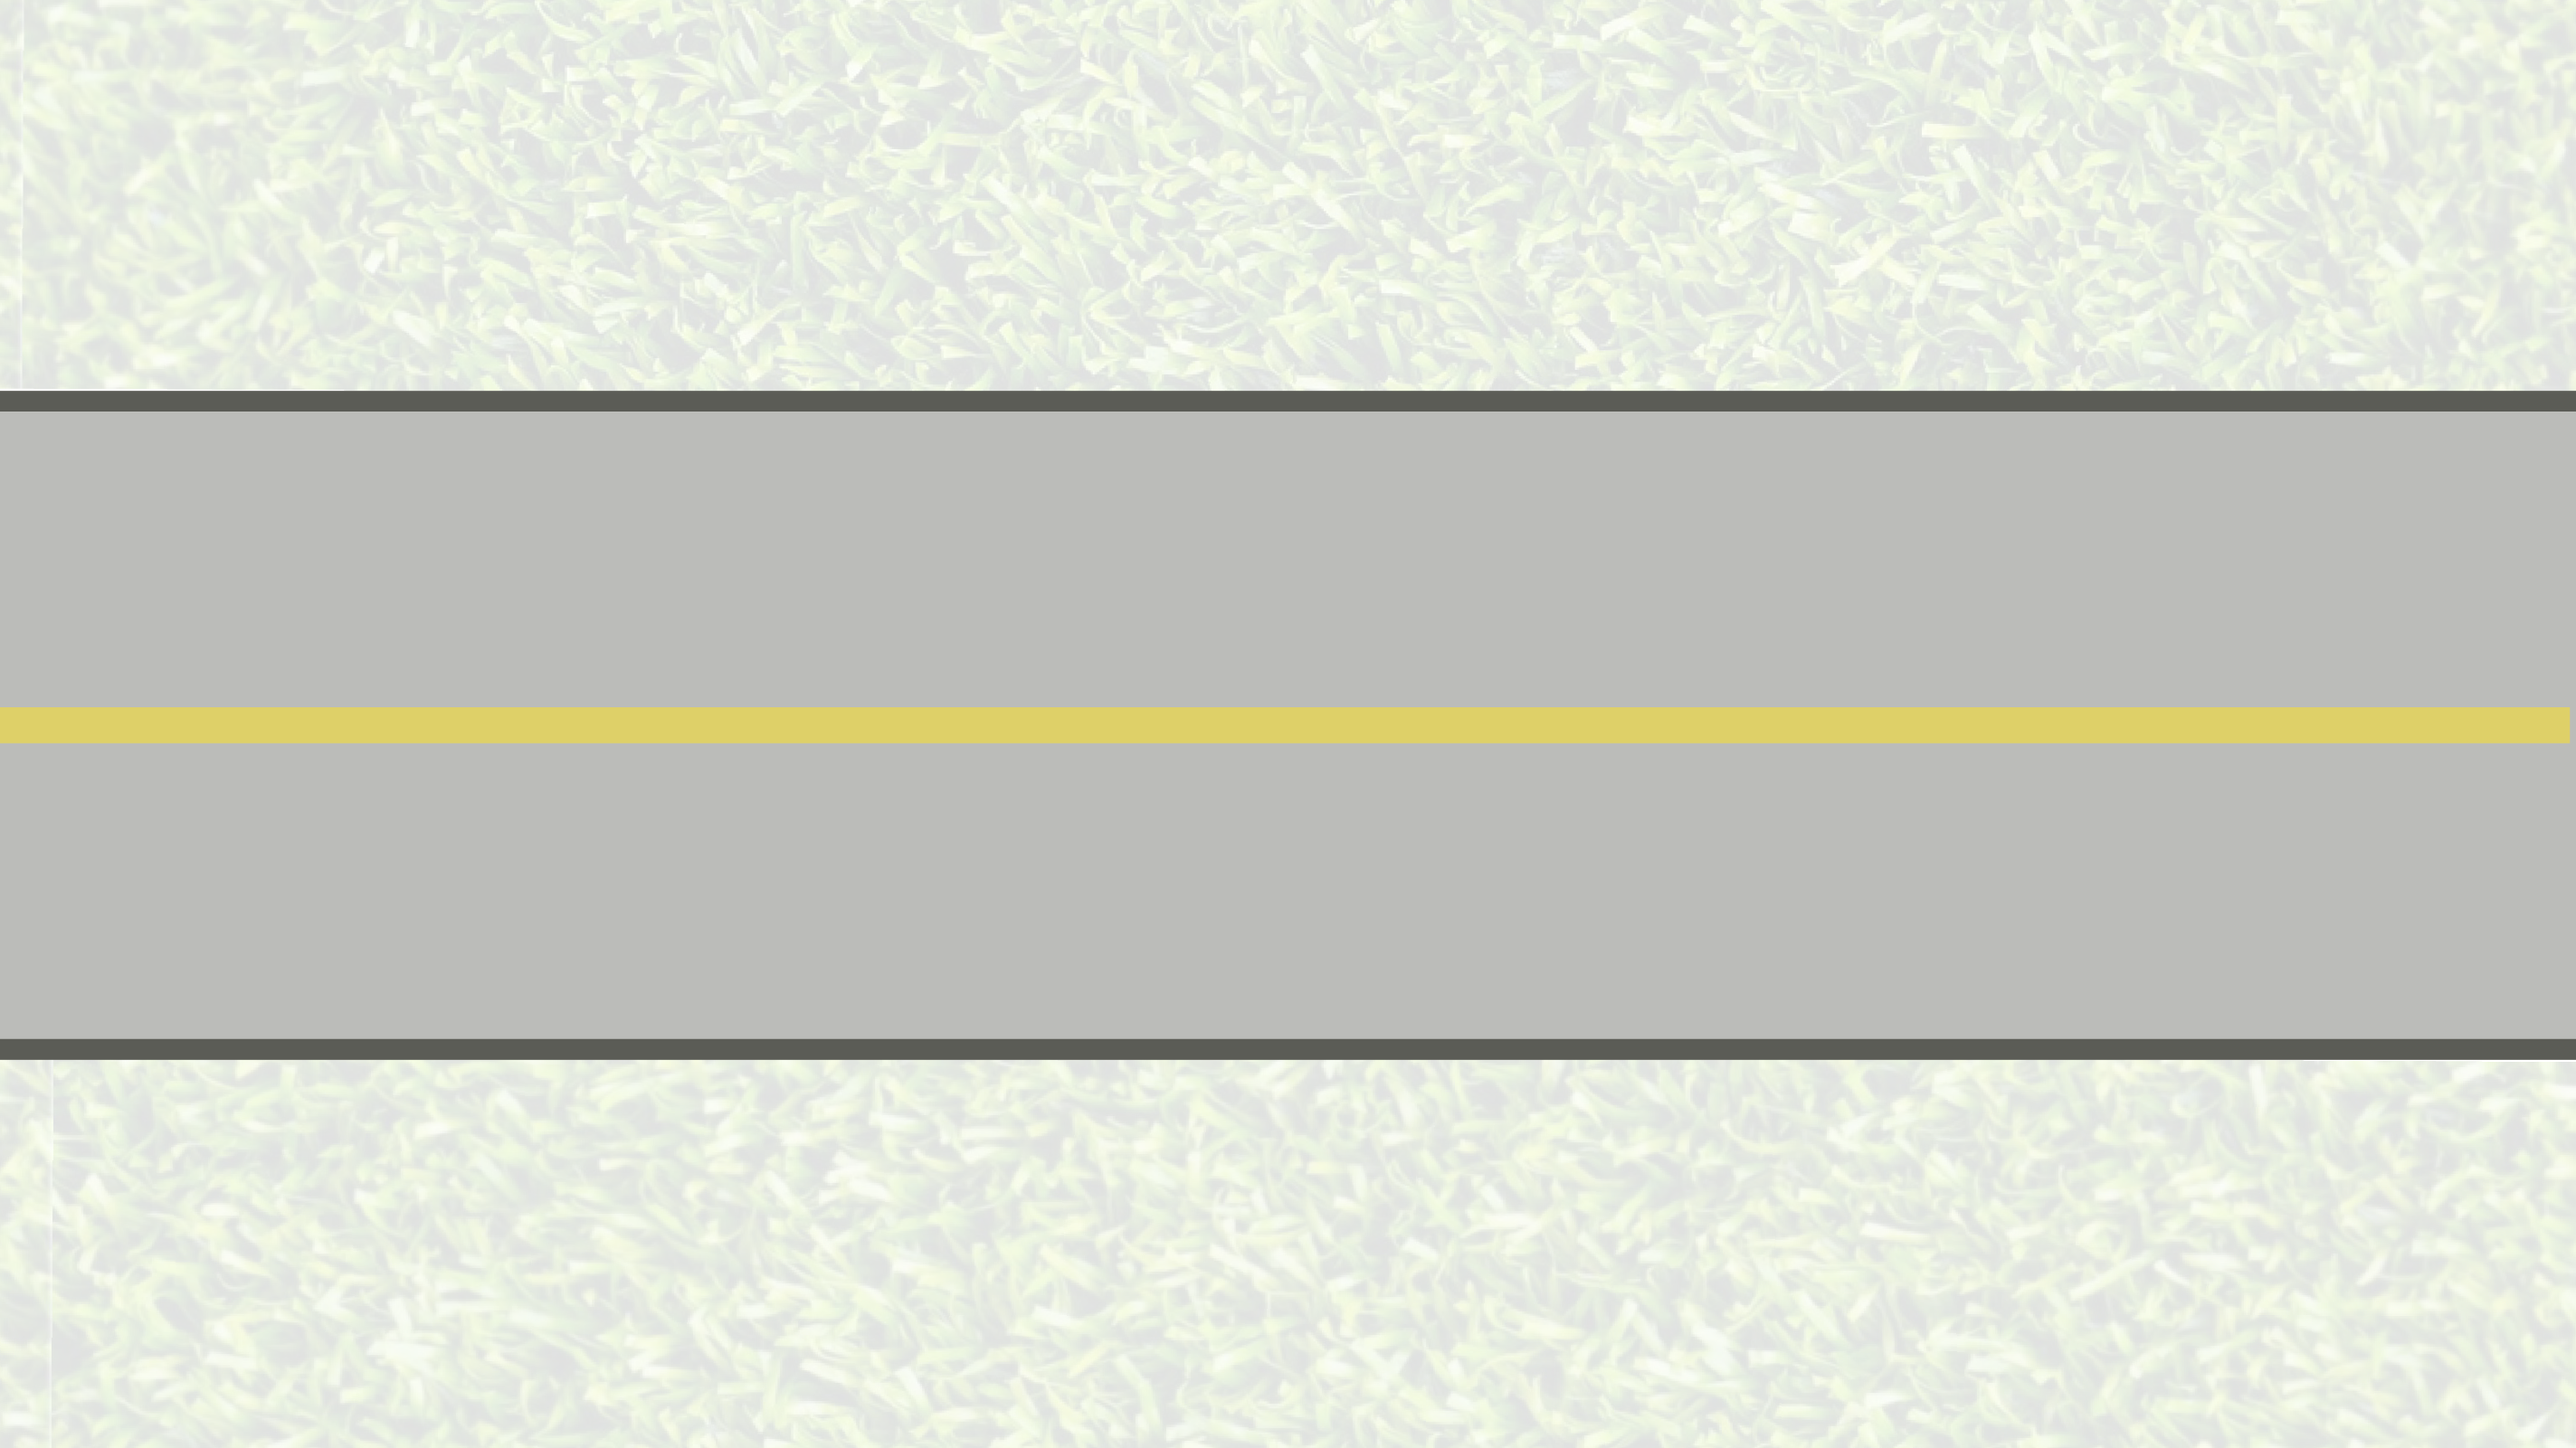
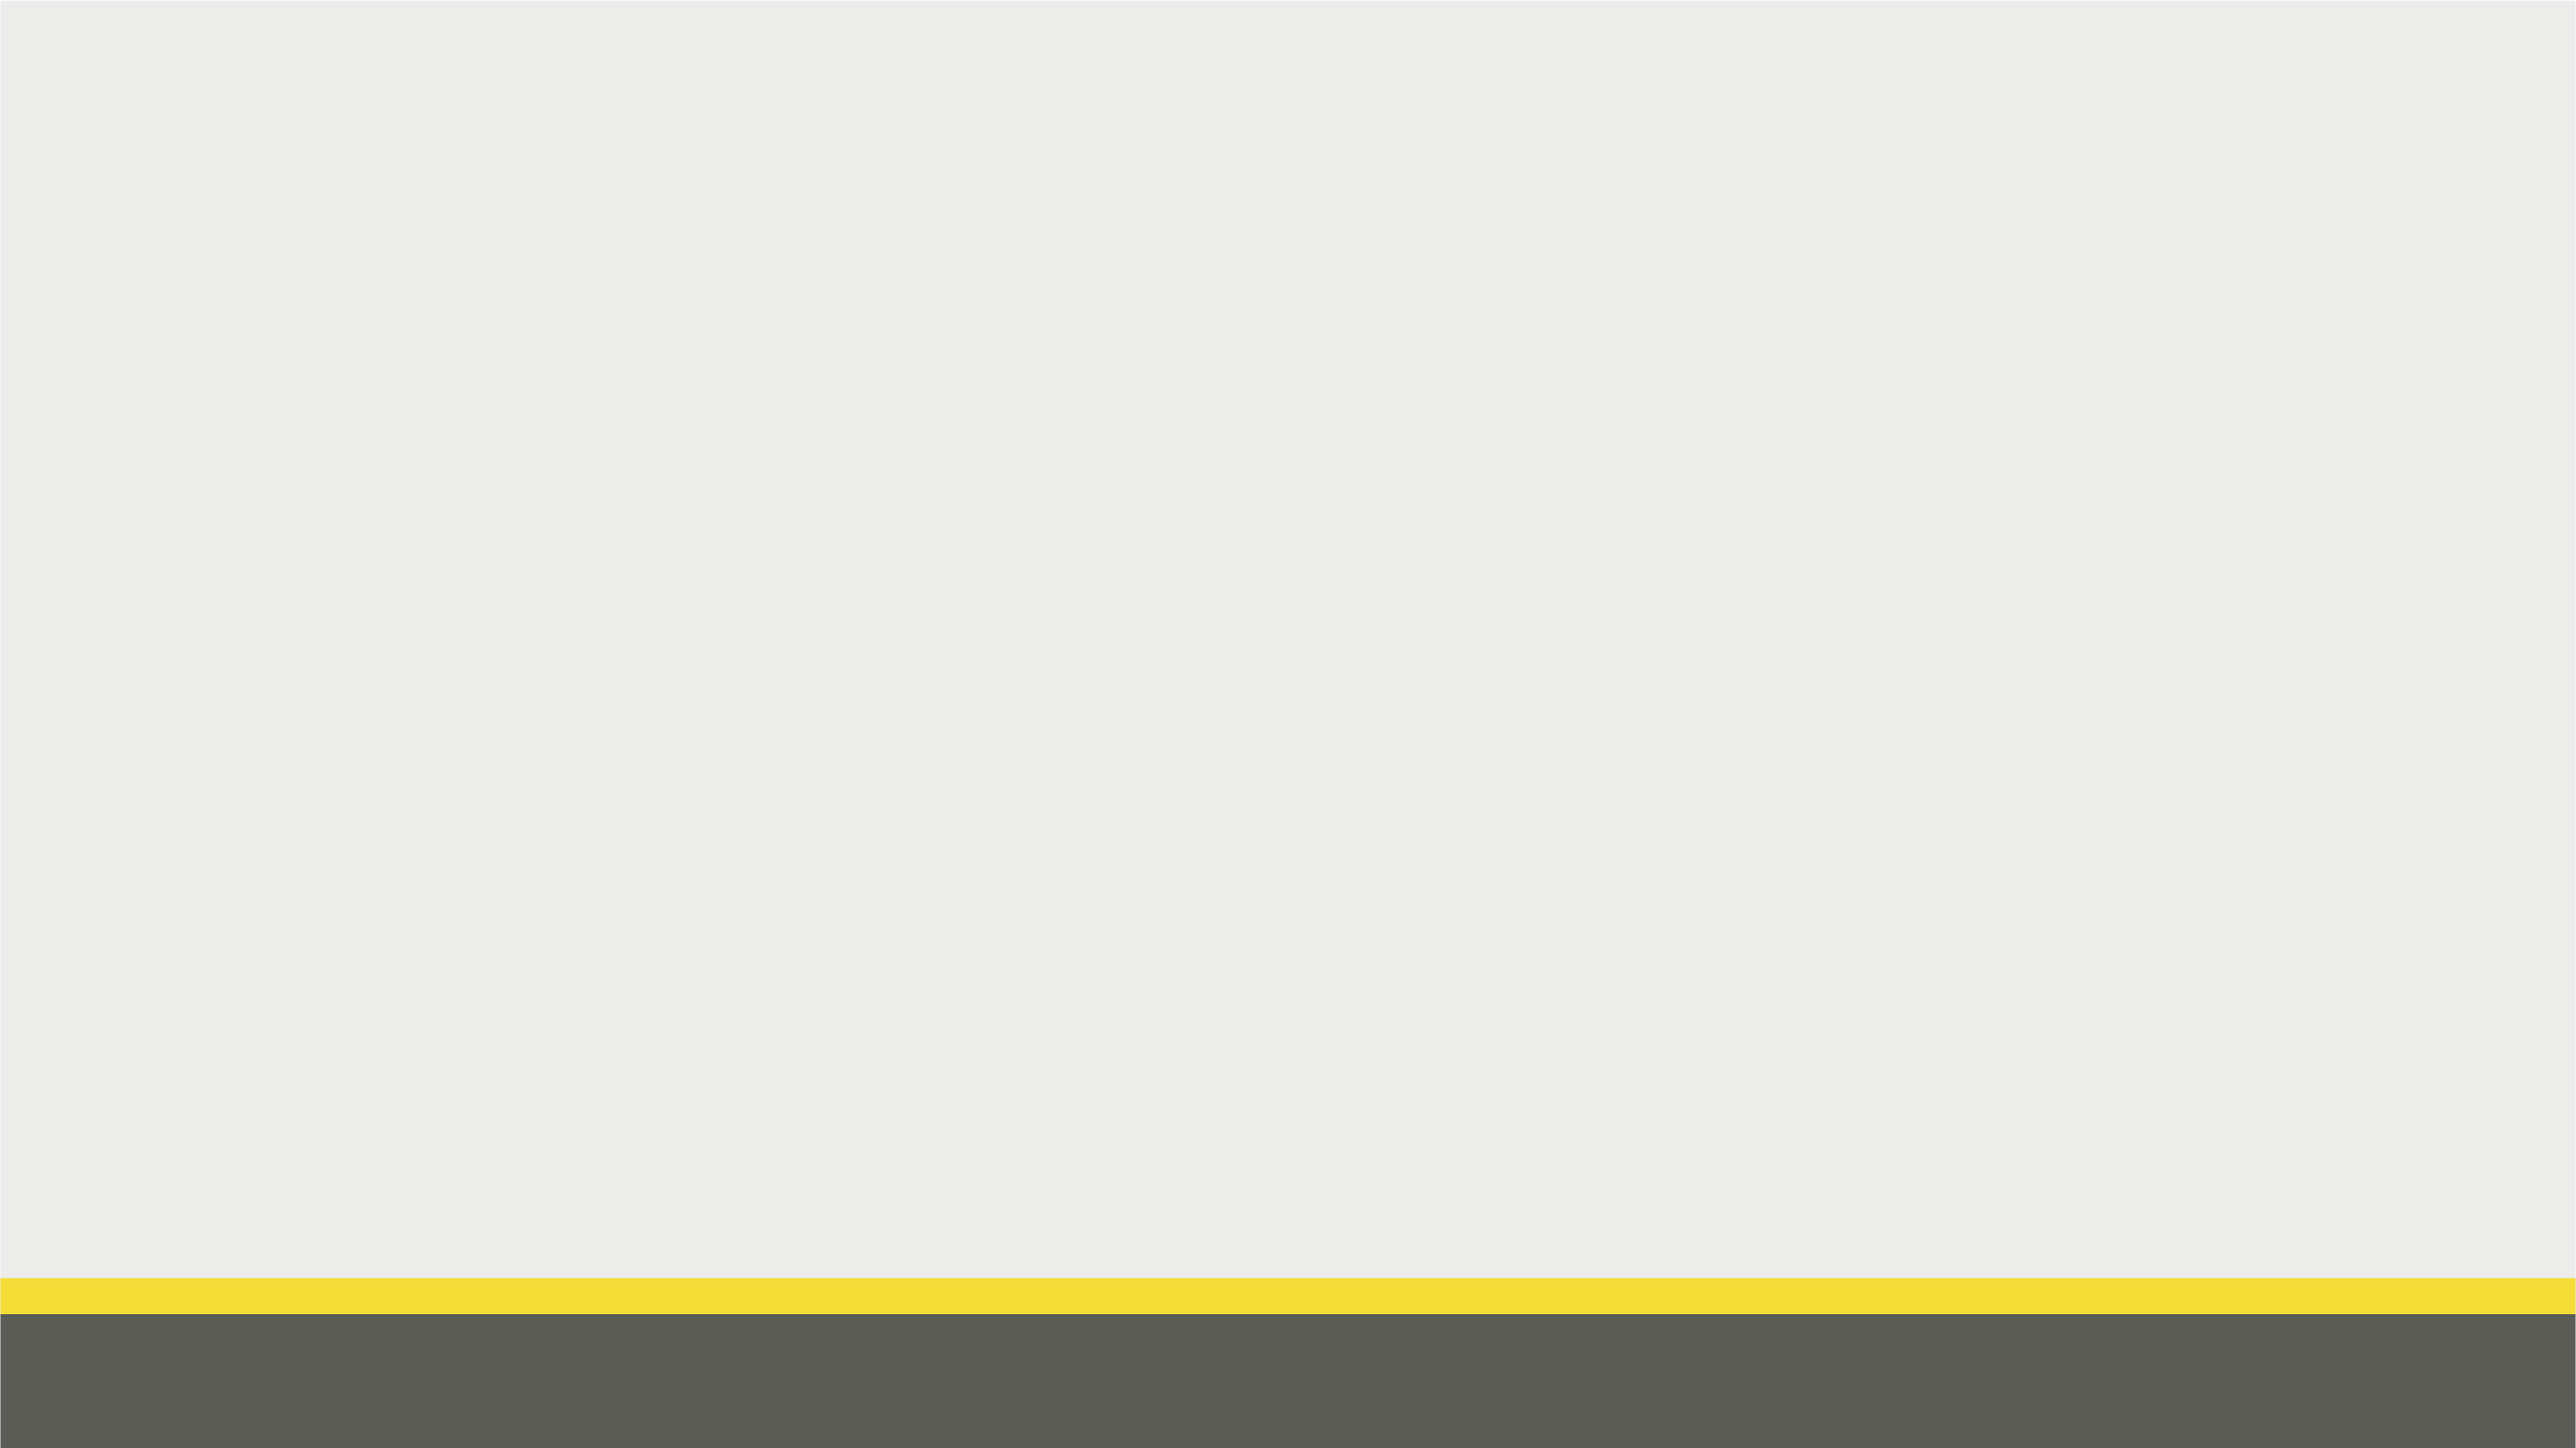
Due to shortage of time, refining ideas to something more doable

diff --git a/js/scripts.js b/js/scripts.js
@@ -24,6 +24,21 @@ $(function (){
     console.log('car animated 2');
   });
 
+//Slide 2 -----------------------------------------------
+
+$('#car-sensor').on({
+  mouseenter: function(){
+    $('#lidar-graphic').css('display', 'block');
+    $('#radar-graphic').css('display', 'block');
+    $('#image-graphic').css('display', 'block');
+    $('#ultrasonic-graphic').css('display', 'block');
+  },
+  mouseleave: function(){
+  $(this).css('color', '#5b5c56');
+  $('#lidar-graphic').css('display', 'none');
+  $('#modal-ld').css('display', 'none');
+  },
+});
 
 
   $('#ld').on({
@@ -56,7 +71,6 @@ $(function (){
     mouseenter: function(){
       $(this).css('color', '#d388f2');
       $('#image-graphic').css('display', 'block');
-      $('#car-sensor').css('display', 'none');
       $('#modal-im').css('display', 'block');
 
     },
@@ -102,42 +116,16 @@ $(function (){
 }
 
 //Slide 3 -----------------------------------------------------
-// Original JavaScript code by Chirp Internet: www.chirp.com.au
-  // Please acknowledge use of this code by including this header.
 
-  window.requestAnimationFrame = window.requestAnimationFrame || window.mozRequestAnimationFrame || window.webkitRequestAnimationFrame || window.msRequestAnimationFrame;
 
-    var field = document.getElementById("field");
-    var ball = document.getElementById("ball");
-    var ball2 = document.getElementById("ball2");
+    $('.tooltip').on({
+      mouseenter: function(){
+      $('#car-3').animate({left: '+=25%'}, 1000);
+      },
+      mouseleave: function(){
 
-    var maxX = field.clientWidth - ball.offsetWidth;
-    var maxY = field.clientHeight - ball.offsetHeight;
+      },
+    });
 
-    var duration = 10; // seconds
-    var gridSize = 50; // pixels
-
-    var start = null;
-
-    function step(timestamp)
-    {
-      var progress, x, y, y2;
-      if(start === null) start = timestamp;
-
-      progress = (timestamp - start) / duration / 1000; // percent
-
-      x = progress * maxX/gridSize; // x = ƒ(t)
-      y = 2 * Math.sin(x); // y = ƒ(x)
-      y2 = 1 * Math.cos(x);
-
-      ball.style.left = ball2.style.left = Math.min(maxX, gridSize * x) + "px";
-      ball.style.bottom = maxY/2 + (gridSize * y) + "px";
-      ball2.style.bottom = maxY/2 + (gridSize * y2) + "px";
-
-      if(progress >= 1) start = null; // reset to start position
-      requestAnimationFrame(step);
-    }
-
-    requestAnimationFrame(step);
 
 });

diff --git a/css/styles.css b/css/styles.css
@@ -64,7 +64,17 @@
   top: 300px;
 }
 
-/* Slide 1 ----------------------------------------------*/
+/* Slide 2 ----------------------------------------------*/
+
+.site-2{
+  display:grid;
+  grid-template-columns: 1fr 1fr 1fr 1fr 1fr 1fr 1fr 1fr;
+  grid-template-rows: 1fr 1fr 1fr;
+  height: 500px;
+  grid-template-areas:;
+  margin: 0;
+}
+
 #slide2{
   background-image: url("../img/slide2-background.png");
   background-size: cover;
@@ -78,7 +88,7 @@
   width: 200px;
   height: auto;
   position: absolute;
-  top: 25%;
+  top: 15%;
   width: 500px;
   height: auto;
   grid-column: 1/5;
@@ -88,7 +98,7 @@
   width: 500px;
   height: auto;
   position: absolute;
-  top: 25%;
+  top: 15%;
 }
 
 .sensors{
@@ -169,73 +179,42 @@ li{
 }
 
 /* Slide 3 ----------------------------------------------*/
-#car-3{
-  width: 300px;
-  height: auto;
-  position: absolute;
-  top: 300px;
-}
 
-#field {
-    position: relative;
-    height: 500px;
-    width: 100%;
-    background-image: url("../img/slide2-background.png");
-    background-size: cover;
-  }
-  #ball, #ball2 {
-    position: absolute;
-    left: 0;
-    bottom: 50%;
-    border-radius: 0.5em;
-  }
-  #ball {
-    background-image: url("../img/sensor-car.png");
-    background-size: contain;
-    background-repeat: no-repeat;
-    width: 200px;
-    height: 300px;
-   }
-
-  #ball2 {
-    background: blue; display: none;
-  }
-
-#grid-3{
-  position: absolute;
-  top: 0;
-  left: 0;
-}
-#ob-1{
-  position: absolute;
-  top: 30%;
-  left: 25%;
-  overflow: hidden;
-}
-
-/* Slide 4 ----------------------------------------------*/
-
-#slide4{
-  background-image: url("../img/slide3-background.jpeg");
-  background-size: contain;
+#slide3{
+  background-image: url("../img/slide3-background.png");
+  background-size: cover;
+  background-position: bottom;
   height: 500px;
   width:100%;
   position: relative;
 }
 
+#ob-1{
+  position: absolute;
+  top: 30%;
+  left: 20%;
+  overflow: hidden;
+}
+
 #ob-2{
   position: absolute;
   top: 30%;
-  left: 50%;
+  left: 45%;
   overflow: hidden;
 }
 #ob-3{
   position: absolute;
   top: 30%;
-  left: 75%;
+  left: 70%;
   overflow: hidden;
 }
 
+#car-3{
+  width: 250px;
+  height: auto;
+  position: absolute;
+  top: 70%;
+}
 
 /* Slick Slider */
 .slick-slider

diff --git a/index.html b/index.html
@@ -20,7 +20,7 @@
       </div>
     </div>
     <div id="slide2">
-      <div class="site">
+      <div class="site-2">
         <div class="modal-wrapper flex">
           <div class="modal flex" id="modal-ld">
             <h4>What Is It?</h4>
@@ -58,26 +58,21 @@
           </ul>
         </div>
         <div class="sensors">
+          <img id="car-sensor" src="img/sensor-car.png">
           <img id="lidar-graphic" src="img/lidar.png">
           <img id="radar-graphic" src="img/radar.png">
           <img id="image-graphic" src="img/image.png">
           <img id="ultrasonic-graphic" src="img/ultrasonic.png">
-          <img id="car-sensor" src="img/sensor-car.png">
         </div>
       </div>
     </div>
     <div id="slide3">
-        <div id="field">
-          <div id="ball"></div>
-          <div id="ball2"></div>
-        </div>
-          <img id="ob-1" class="tooltip" title="This is my span's tooltip message!This is my span's tooltip message!This is my span's tooltip message!This is my span's tooltip message!This is my span's tooltip message!" src="img/obstacle.png">
-
-    </div>
-    <div id="slide4">
+      <div class="site">
+        <img id="car-3" src="img/car-graphic.png">
         <img id="ob-1" class="tooltip" title="This is my span's tooltip message!This is my span's tooltip message!This is my span's tooltip message!This is my span's tooltip message!This is my span's tooltip message!" src="img/obstacle.png">
         <img id="ob-2" class="tooltip" title="This is my span's tooltip message!This is my span's tooltip message!This is my span's tooltip message!This is my span's tooltip message!This is my span's tooltip message!" src="img/obstacle.png">
         <img id="ob-3" class="tooltip" title="This is my span's tooltip message!This is my span's tooltip message!This is my span's tooltip message!This is my span's tooltip message!This is my span's tooltip message!" src="img/obstacle.png">
+      </div>
     </div>
     <div>your content</div>
   </div>
